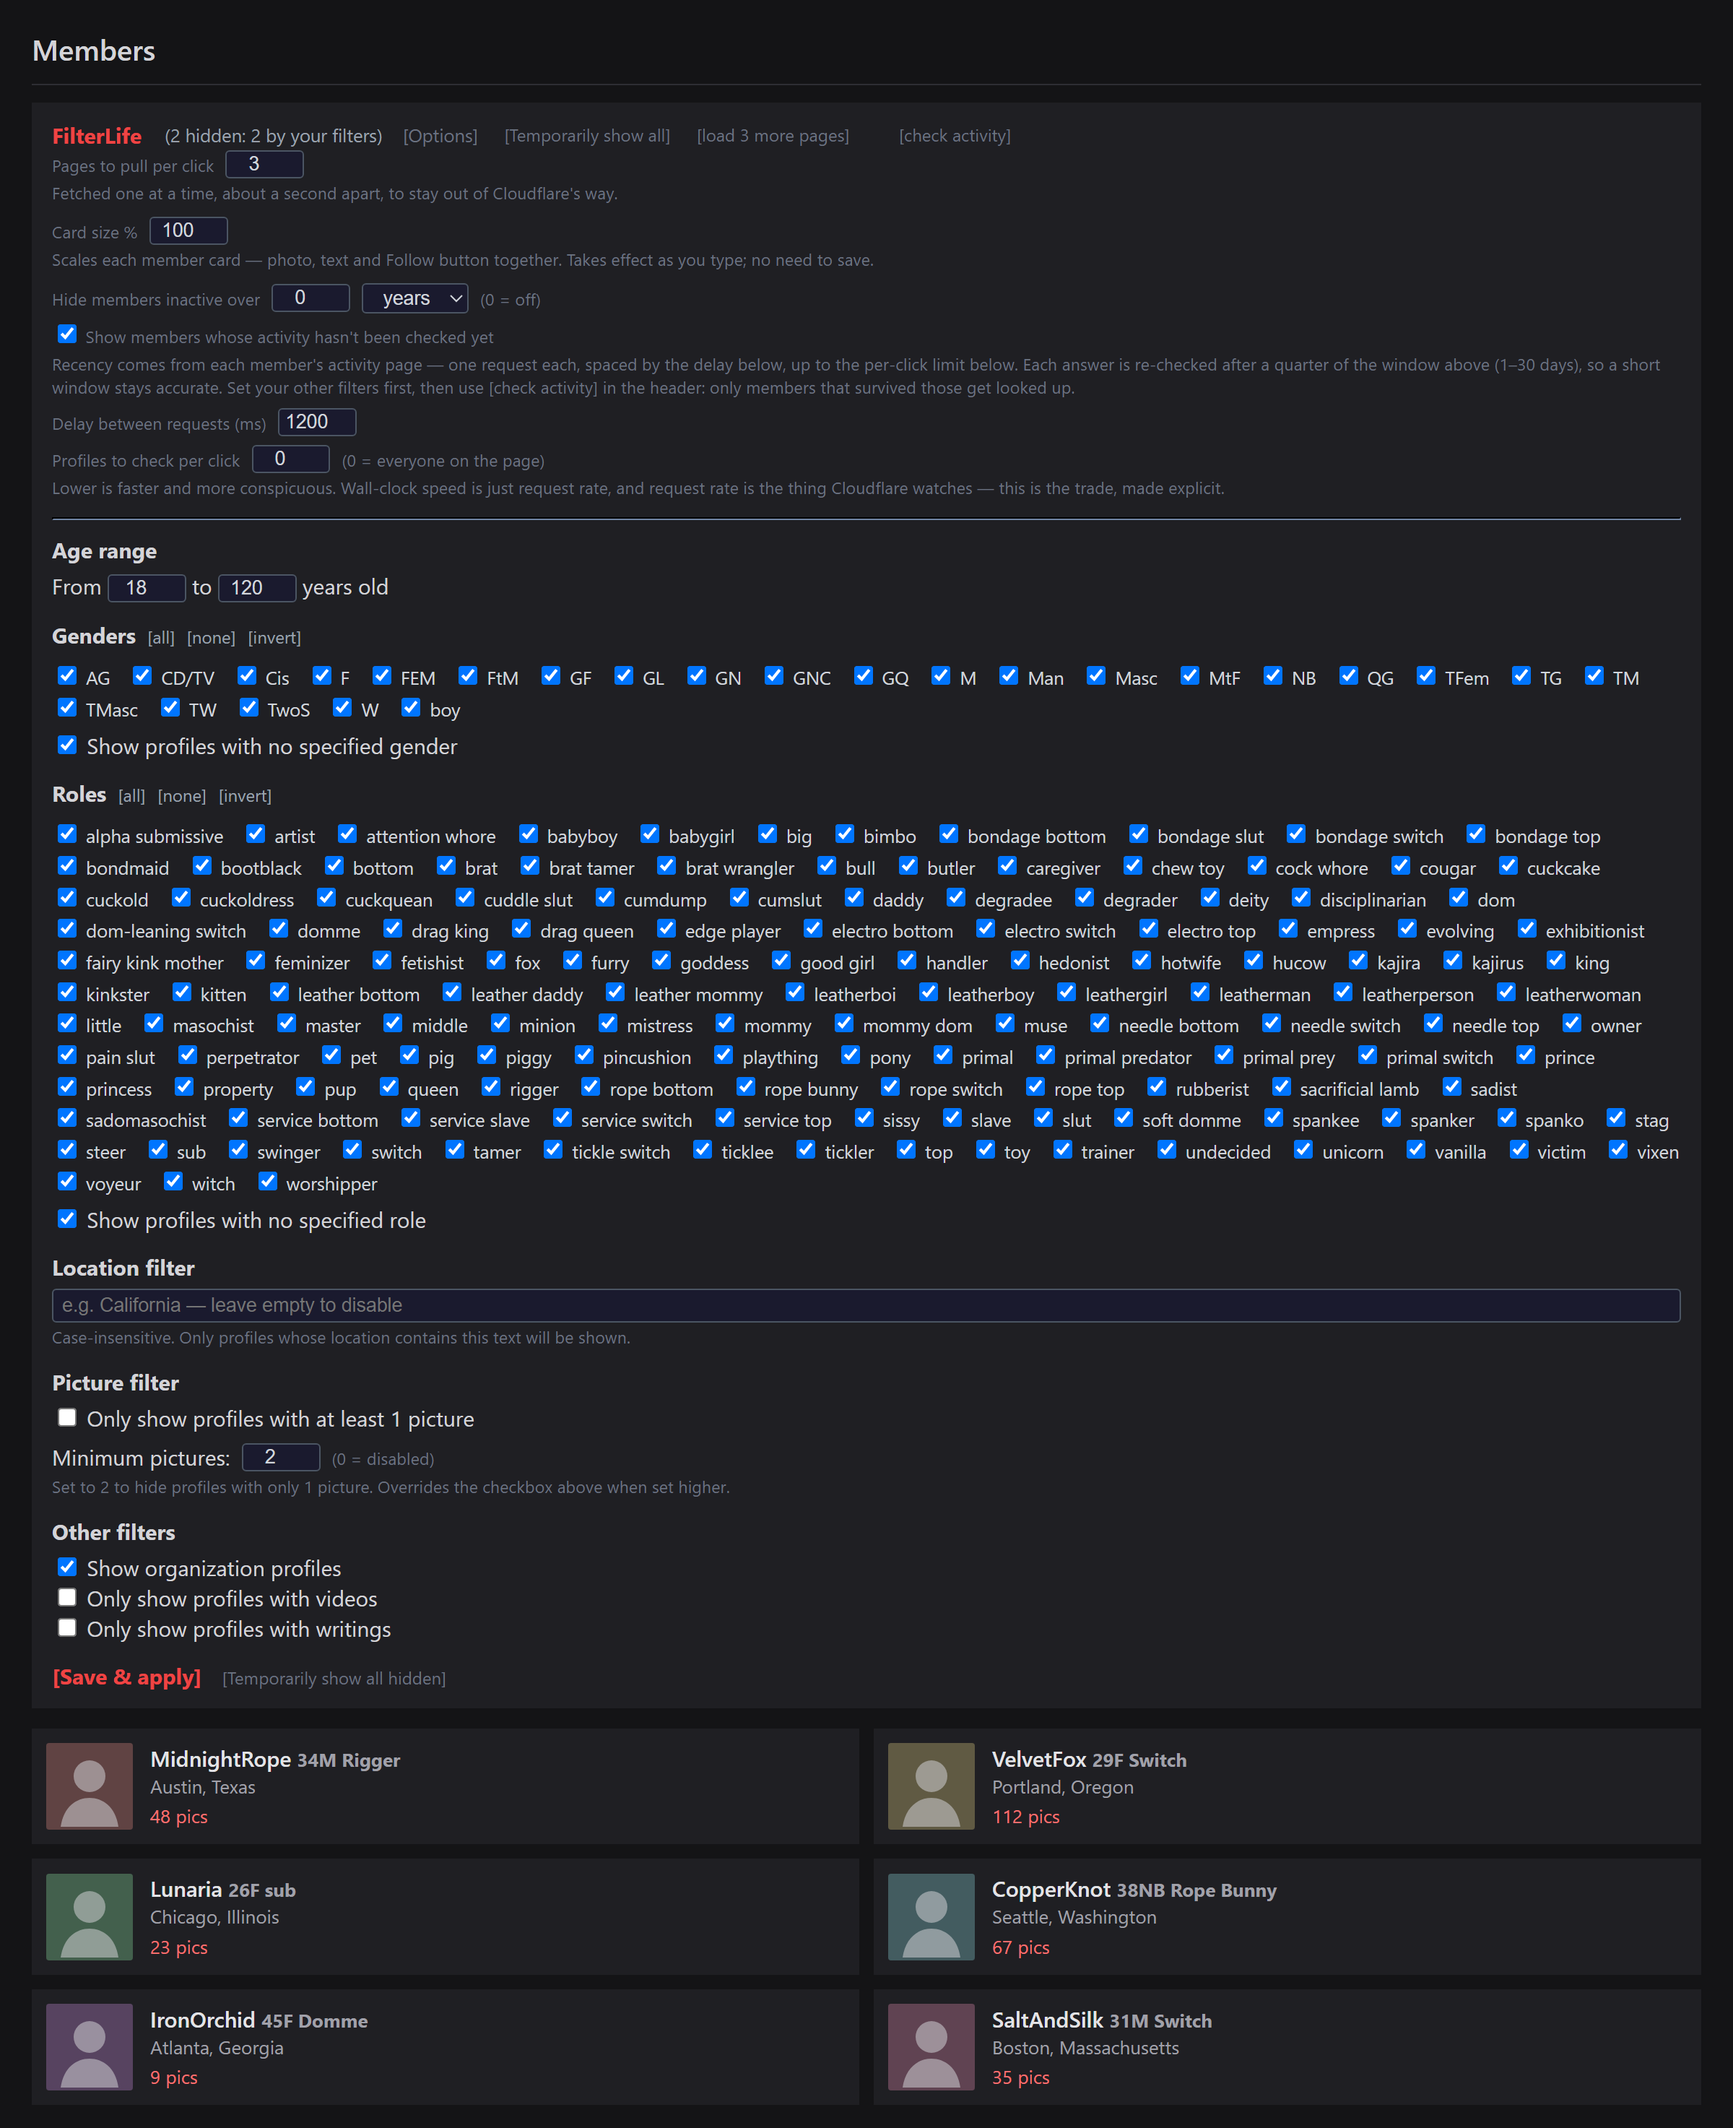
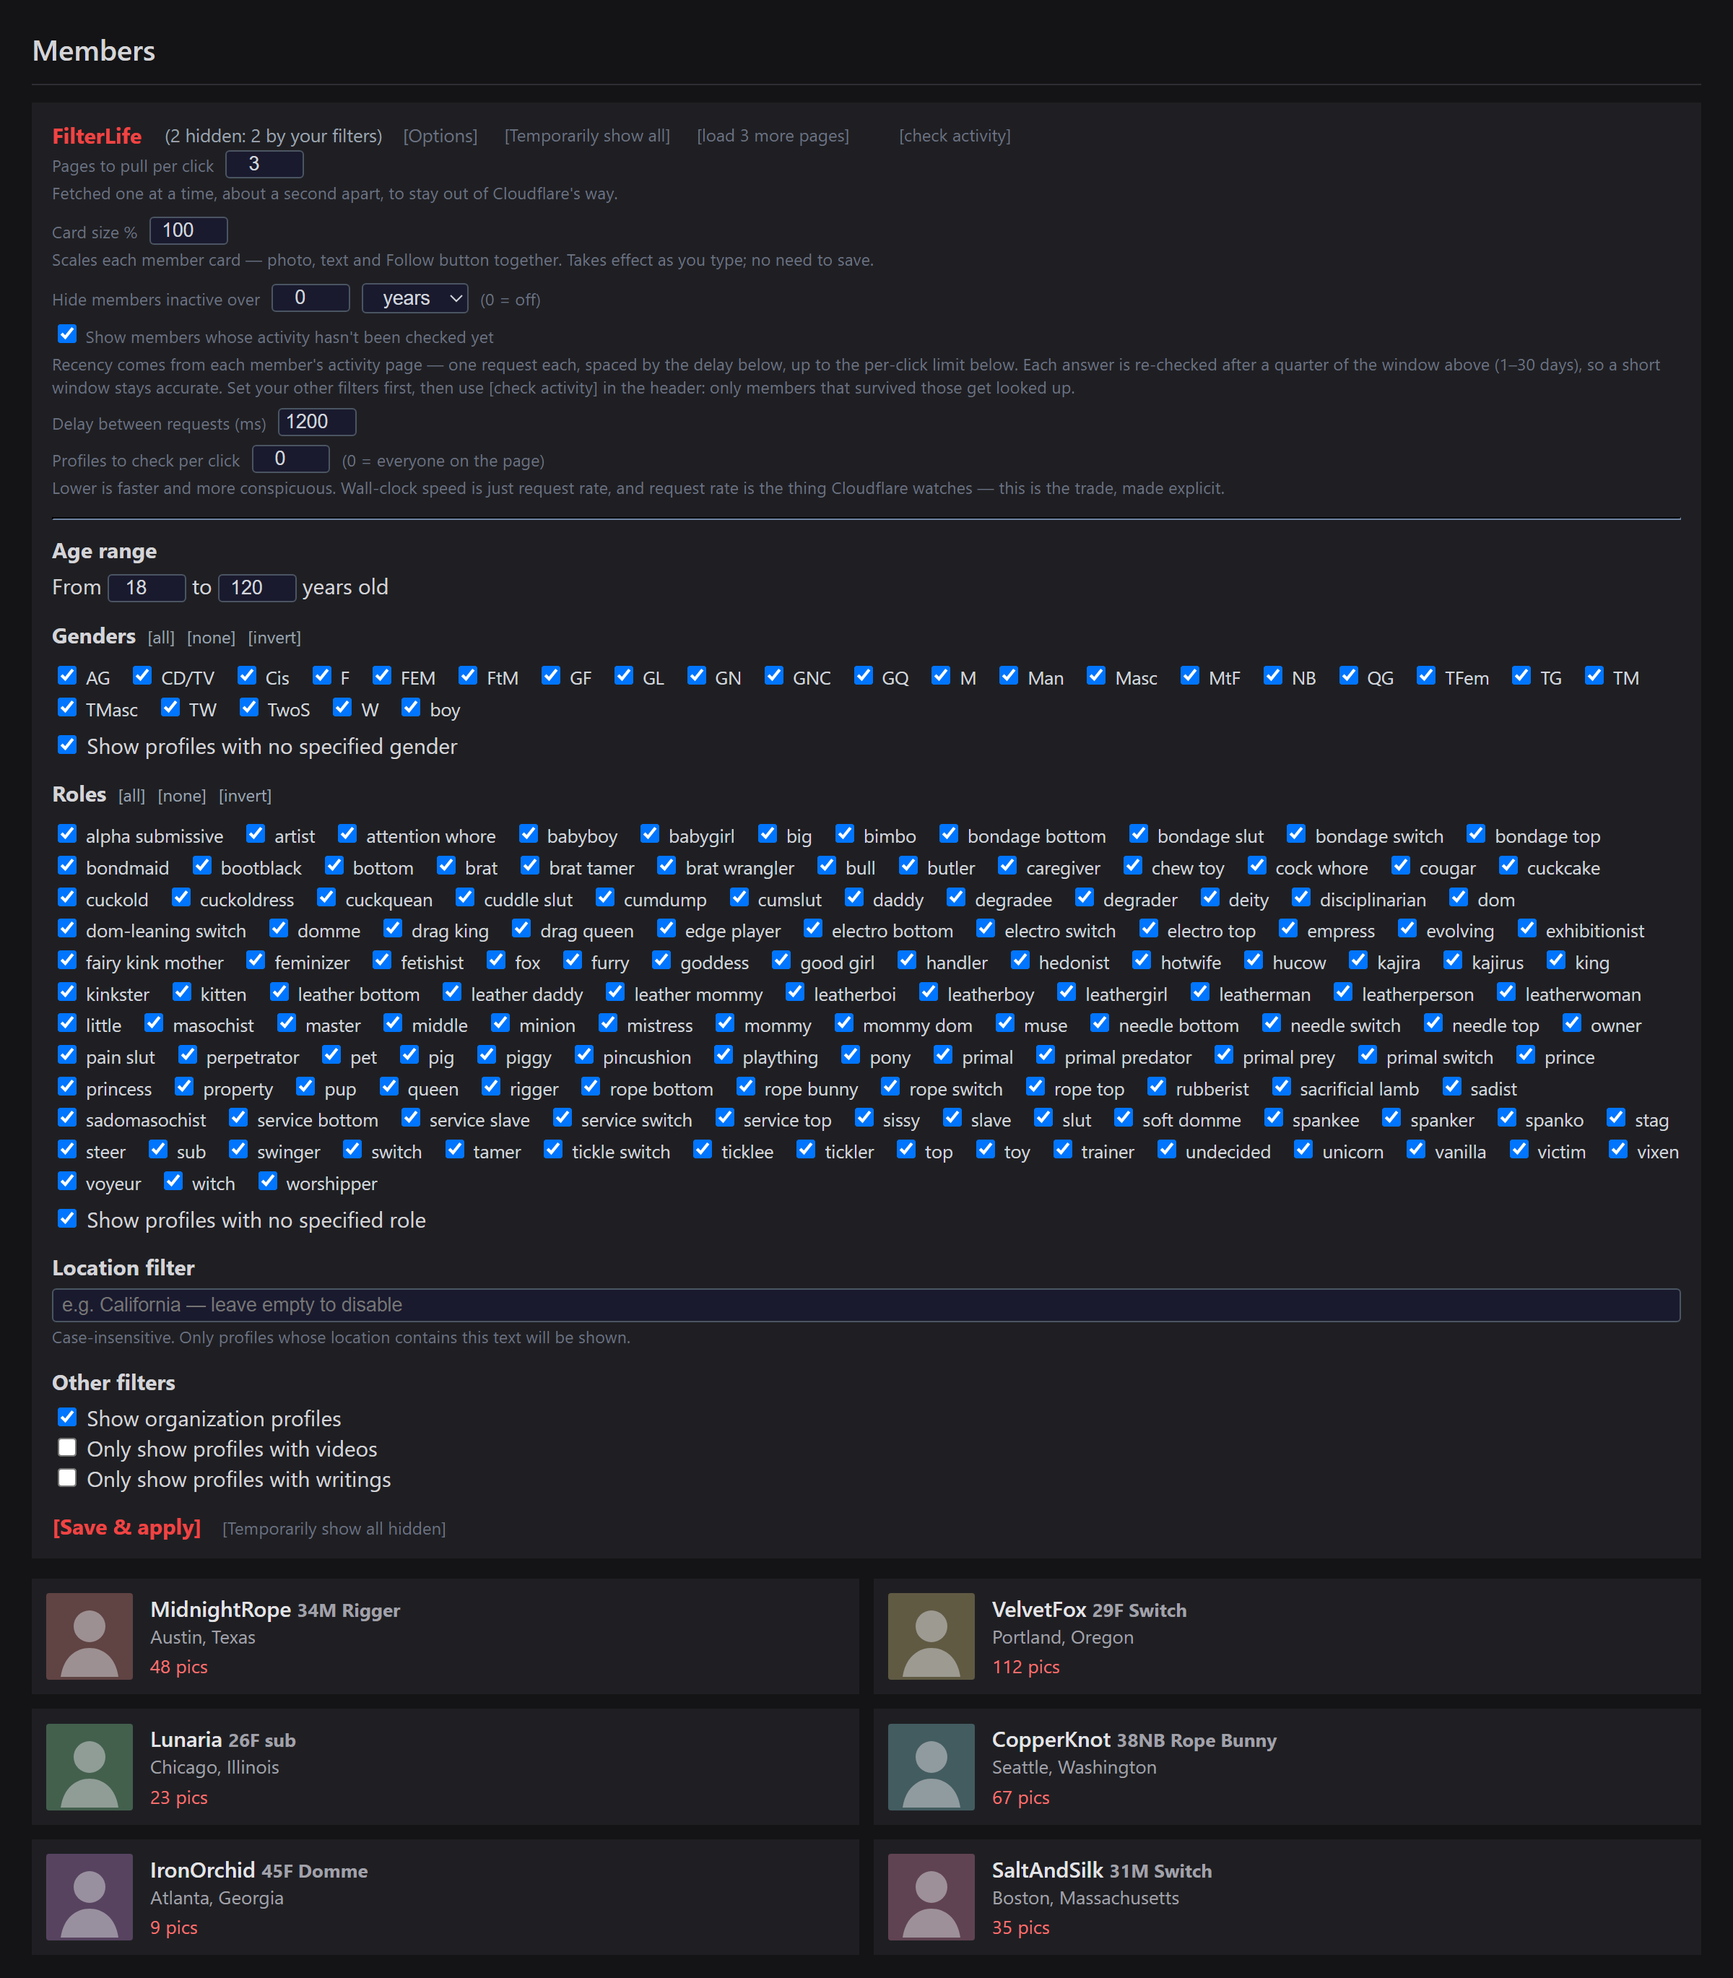
v2.21: fast filtering on long merged lists, accurate hidden count
Judge each batch of cards before changing any of them. shouldHide reads
innerText, and every judged card got its ✕ button and hidden class right
away, so each read forced a fresh layout of the whole grid. At 9,180
merged cards that took about a minute to filter (Save & apply: 25 s);
now under a second (0.26 s), with identical results at every size.

The "(N hidden: ...)" status is rebuilt from the cards actually on the
page. It stayed blank when FetLife rendered a list before its header,
and kept counting the previous page's members after in-site navigation.

README: changelog for 2.20 and 2.21; tidier feature list, screenshot
and script description.

diff --git a/fetlife-member-filter.user.js b/fetlife-member-filter.user.js
@@ -1,8 +1,8 @@
 // ==UserScript==
 // @name         2026 Fetlife Member Filter
 // @namespace    http://tampermonkey.net/
-// @version      2.20
-// @description  Filter FetLife member lists by gender, age, role, location, picture count and recent activity. Hides fake one-photo profiles, loads up to 10 pages at once, and filters cards before they render.
+// @version      2.21
+// @description  Filter FetLife member lists by gender, age, role, location and recent activity. Loads up to 100 pages at once and filters cards before they render.
 // @author       Bull864
 // @author       genevera
 // @author       Biekdafreak
@@ -327,20 +327,41 @@
     hiddenWhy = {};
   }
 
-  function processCard(card) {
-    if (card.dataset.filiProcessed === "true") return;
-    card.dataset.filiProcessed = "true";
-    addBlockButton(card);
+  // Judge a batch of cards first, then change them. shouldHide reads
+  // innerText, which makes the browser lay the page out again if anything
+  // changed since the last read, and judging a card changes it (its ✕ button,
+  // the hidden class). Done one card at a time, that was a full re-layout of
+  // the list per card: 9,180 merged cards took about a minute to filter, and
+  // Save & apply about 25 seconds. Reading every card in the batch before
+  // writing to any of them costs one layout per batch instead.
+  function processCards(cards) {
+    const verdicts = [];
+    for (const card of cards) {
+      if (card.dataset.filiProcessed === "true") continue;
+      card.dataset.filiProcessed = "true";
+      lastHideReason = "filters";
+      let hide = false;
+      try {
+        hide = shouldHide(card);
+      } catch (e) {
+        // One odd card must not leave the rest of the batch unjudged.
+        console.debug("[FiLi] could not judge a card", e);
+      }
+      verdicts.push([card, hide, lastHideReason]);
+    }
+    if (!verdicts.length) return;
 
-    lastHideReason = "filters";
-    if (shouldHide(card)) {
-      hideUnit(card).classList.add("fili-hidden");
-      hiddenCount++;
-      hiddenWhy[lastHideReason] = (hiddenWhy[lastHideReason] || 0) + 1;
-      // Remembered so one card can be re-judged later without recounting all.
-      card.dataset.filiWhy = lastHideReason;
-    } else {
-      delete card.dataset.filiWhy;
+    for (const [card, hide, why] of verdicts) {
+      addBlockButton(card);
+      if (hide) {
+        hideUnit(card).classList.add("fili-hidden");
+        hiddenCount++;
+        hiddenWhy[why] = (hiddenWhy[why] || 0) + 1;
+        // Remembered so one card can be re-judged later without recounting all.
+        card.dataset.filiWhy = why;
+      } else {
+        delete card.dataset.filiWhy;
+      }
     }
 
     updateStatus();
@@ -349,13 +370,45 @@
     scheduleActivityQueue();
   }
 
-  function processAllCards() {
-    document.querySelectorAll(CARD_SELECTOR).forEach(processCard);
+  function processCard(card) {
+    processCards([card]);
   }
 
+  function processAllCards() {
+    processCards(document.querySelectorAll(CARD_SELECTOR));
+  }
+
+  // The header count is rebuilt from the page itself, not trusted from the
+  // running tallies. On a single-page app those drifted: cards judged before
+  // the panel existed never reached the header (it stayed blank), and cards
+  // from the previous route stayed counted after FetLife removed them.
+  // Coalesced to one recount per task, so a batch of 20 cards or a stream of
+  // activity answers costs one pass over the list, not one per card.
+  let statusQueued = false;
+
   function updateStatus() {
+    if (statusQueued) return;
+    statusQueued = true;
+    setTimeout(() => {
+      statusQueued = false;
+      renderStatus();
+    }, 0);
+  }
+
+  function recountHidden() {
+    resetHiddenCounts();
+    document.querySelectorAll(CARD_SELECTOR).forEach((card) => {
+      if (!hideUnit(card).classList.contains("fili-hidden")) return;
+      const why = card.dataset.filiWhy || "filters";
+      hiddenCount++;
+      hiddenWhy[why] = (hiddenWhy[why] || 0) + 1;
+    });
+  }
+
+  function renderStatus() {
     const el = document.getElementById("FiLiNumHidden");
     if (!el) return;
+    recountHidden();
     if (!hiddenCount) {
       el.textContent = "";
       return;
@@ -369,22 +422,36 @@
   // ─── MutationObserver: fires the instant cards exist in the DOM ────────────
 
   const observer = new MutationObserver((mutations) => {
+    const found = [];
     for (const mutation of mutations) {
+      // A route change removes the old list: drop its cards from the count.
+      for (const node of mutation.removedNodes) {
+        if (
+          node.nodeType === 1 &&
+          (node.matches(CARD_SELECTOR) || node.querySelector(CARD_SELECTOR))
+        ) {
+          updateStatus();
+          break;
+        }
+      }
+
       for (const node of mutation.addedNodes) {
         if (node.nodeType !== 1) continue;
 
         // Node itself might be a card
         if (node.matches && node.matches(CARD_SELECTOR)) {
-          processCard(node);
+          found.push(node);
           continue;
         }
 
         // Or it might contain cards (e.g. a wrapper div added during infinite scroll)
         if (node.querySelectorAll) {
-          node.querySelectorAll(CARD_SELECTOR).forEach(processCard);
+          node.querySelectorAll(CARD_SELECTOR).forEach((c) => found.push(c));
         }
       }
     }
+    // Judged together, so a page of new cards costs one layout, not one each.
+    processCards(found);
     scheduleActivityQueue();
   });
 
@@ -543,6 +610,9 @@
 
     // Do an immediate pass in case cards already exist in the DOM
     processAllCards();
+    // Cards the observer judged before this panel existed skip that pass, so
+    // their count has to be shown here or the header stays blank.
+    updateStatus();
   }
 
   function bindUIEvents() {
@@ -989,11 +1059,14 @@
         // happen while attached and visible: on a detached or hidden node
         // innerText falls back to raw textContent, whose line breaks can break
         // the "35F sub" parse and hide the card as ageless (v2.13 did that).
+        // Unhide the whole batch, then judge it in one pass (see processCards).
+        const merged = [];
         pending.forEach((u) => {
           const card = u.matches(CARD_SELECTOR) ? u : u.querySelector(CARD_SELECTOR);
           u.classList.remove("fili-hidden");
-          if (card) processCard(card);
+          if (card) merged.push(card);
         });
+        processCards(merged);
         loadedThroughPage = page;
 
         if (atEnd) {
@@ -1772,6 +1845,7 @@
     unit.style.outline = "";
     hiddenCount++;
     hiddenWhy.blocked = (hiddenWhy.blocked || 0) + 1;
+    card.dataset.filiWhy = "blocked";
     updateStatus();
   }
 

diff --git a/README.md b/README.md
@@ -2,19 +2,18 @@
 
 A Tampermonkey userscript for FetLife member lists (group members, place members, search
 results). It hides the profiles you don't want before they appear on screen. You can filter
-by gender, age, role, location, picture count and how recently someone was active.
+by gender, age, role, location and how recently someone was active.
 
-The original goal was clearing out fake profiles with a single photo. It now also loads
-several pages at once and filters across all of them, so you can work through thousands of
-members in minutes instead of paging through them by hand.
+It also loads several pages at once and filters across all of them, so you can work through
+thousands of members in minutes instead of paging through them by hand.
 
 **[Install the script](https://raw.githubusercontent.com/Biekdafreak/2026-Fetlife-Member-Search-Filter/main/fetlife-member-filter.user.js)**
 (you need Tampermonkey first; see below)
 
 ![The FilterLife panel with Options open, above a member list](screenshots/filter-panel.png)
 
-*The full panel with Options open, shown on a demo list of made-up members. Minimum pictures
-is set to 2, so the two single-photo profiles are hidden, and the status line says so.*
+*The panel with Options open, shown on a demo list of made-up members. The status line says
+how many members are hidden and why.*
 
 ---
 
@@ -26,7 +25,6 @@ is set to 2, so the two single-photo profiles are hidden, and the status line sa
 | **Genders** | Checkbox for every gender FetLife lists, with [all] / [none] / [invert] shortcuts, plus a toggle for profiles with no gender set. |
 | **Roles** | Same as genders, for every role FetLife lists (dom, domme, brat, bottom and so on). |
 | **Location** | Text match against the member's location, e.g. `California`. Leave it empty to turn it off. |
-| **Pictures** | Hide profiles with no pictures, or set a minimum count. **Set it to 2 to drop single-photo fakes.** |
 | **Videos / writings** | Only show profiles that have videos, or writings. |
 | **Organizations** | Show or hide organization profiles. |
 | **Last activity** | Hide members who haven't been active in the last N days, weeks, months or years. |
@@ -81,7 +79,7 @@ FetLife member cards don't show when someone was last active. To find out, the s
 each member's activity page and reads the newest timestamp on it. In practice:
 
 - **Set your other filters first.** Only members who pass them get checked, so a tight
-  gender, age or picture filter saves a lot of requests.
+  gender, age or location filter saves a lot of requests.
 - Results are **cached**. Each member is re-checked after a quarter of your window, clamped to
   between 1 and 30 days. With a 1-month window, that's about once a week.
 - **Show members whose activity hasn't been checked yet**: with this off, unchecked members
@@ -131,8 +129,7 @@ each member's activity page and reads the newest timestamp on it. In practice:
 
 ## What this fork adds
 
-Changes in this fork, building on the original filter (gender, age, role, location,
-pictures):
+Changes in this fork, building on the original filter:
 
 - **2.01**: The panel now appears after FetLife's in-site navigation, not only after a refresh.
 - **2.02**: Multi-page loading.
@@ -155,6 +152,12 @@ pictures):
   judged as they arrive. Each answer updates only that member's card instead of re-filtering
   the whole list, a rate-limit answer pauses the checks instead of marking people inactive, and
   [Temporarily show all] is no longer undone by the next lookup.
+- **2.20**: Requests are paced across all open tabs, so two tabs can't double the request rate,
+  and everything stops the moment FetLife shows its lockout page.
+- **2.21**: Much faster on long merged lists. Filtering 9,000 loaded members took about a
+  minute and now takes under a second, and Save & apply went from 25 seconds to a quarter of a
+  second. The status line no longer goes blank or keeps counting members from the previous page
+  after FetLife's in-site navigation.
 
 ## Credits and license
 
